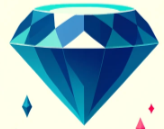
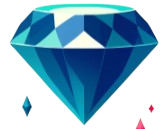
reward image alignment corrections, proper image resizing

diff --git a/dist/experiment.js b/dist/experiment.js
@@ -8,8 +8,8 @@ exports.currentStage = "instructions"; // [instructions, stage1, stage2]
 exports.results = [];
 exports.points = 0;
 // variables for game setting 1
-var REWARD_1 = { points: 100, image: "img/gem-emerald.png", message: "Yay! You found a gem of 100 points! You will now fly back to Earth..." };
-var REWARD_2 = { points: 0, image: "img/dirt.png", message: "Aw, you found only some dirt (no points)! You will now fly back to Earth..." };
+var REWARD_1 = { points: 100, image: "reward-img-gem", message: "Yay! You found a gem of 100 points! You will now fly back to Earth..." };
+var REWARD_2 = { points: 0, image: "reward-img-dirt", message: "Aw, you found only some dirt (no points)! You will now fly back to Earth..." };
 // // variables for game setting 2
 // const REWARD_1 = { points: 100, image: "img/gem-sapphire.png" };
 // const REWARD_2 = { points: 100, image: "img/gem-ruby.png" };
@@ -80,17 +80,17 @@ function chooseOption(option) {
             document.getElementById('stage-2-instructions').style.display = 'none';
             document.getElementById('reward-message').innerText = rewardMessage;
             document.getElementById('reward-message').style.display = 'block';
-            var rewardImgElement = document.getElementById('reward-img');
-            rewardImgElement.style.display = 'block';
-            if (rewardImgElement instanceof HTMLImageElement) {
-                rewardImgElement.src = rewardImage;
-            }
+            document.getElementById(rewardImage).style.display = 'block';
+            // rewardImgElement!.style.display = 'block';
+            // if (rewardImgElement instanceof HTMLImageElement) { 
+            //     rewardImgElement.src = rewardImage; 
+            // }
             // do this only after temporary reward display shows
             setTimeout(function () {
                 exports.points += reward;
                 document.getElementById('pointCounter').innerText = exports.points.toString();
                 document.getElementById('reward-message').style.display = 'none';
-                document.getElementById('reward-img').style.display = 'none';
+                document.getElementById(rewardImage).style.display = 'none';
                 exports.round++;
                 console.log("round: " + exports.round);
                 // check if at the end of game

diff --git a/src/experiment.ts b/src/experiment.ts
@@ -6,8 +6,8 @@ export let results: { round: number; choice: string; outcome: string; reward: nu
 export let points: number = 0;
 
 // variables for game setting 1
-const REWARD_1 = { points: 100, image: "img/gem-emerald.png", message: "Yay! You found a gem of 100 points! You will now fly back to Earth..."};
-const REWARD_2 = { points: 0, image: "img/dirt.png", message: "Aw, you found only some dirt (no points)! You will now fly back to Earth..."};
+const REWARD_1 = { points: 100, image: "reward-img-gem", message: "Yay! You found a gem of 100 points! You will now fly back to Earth..."};
+const REWARD_2 = { points: 0, image: "reward-img-dirt", message: "Aw, you found only some dirt (no points)! You will now fly back to Earth..."};
 // // variables for game setting 2
 // const REWARD_1 = { points: 100, image: "img/gem-sapphire.png" };
 // const REWARD_2 = { points: 100, image: "img/gem-ruby.png" };
@@ -81,16 +81,18 @@ export function chooseOption(option: string): void {
             document.getElementById('stage-2-instructions')!.style.display = 'none';
             document.getElementById('reward-message')!.innerText = rewardMessage;
             document.getElementById('reward-message')!.style.display = 'block';
-            const rewardImgElement = document.getElementById('reward-img')
-            rewardImgElement!.style.display = 'block';
-            if (rewardImgElement instanceof HTMLImageElement) { rewardImgElement.src = rewardImage; }
+            document.getElementById(rewardImage)!.style.display = 'block';
+            // rewardImgElement!.style.display = 'block';
+            // if (rewardImgElement instanceof HTMLImageElement) { 
+            //     rewardImgElement.src = rewardImage; 
+            // }
             
             // do this only after temporary reward display shows
             setTimeout(function() {
                 points += reward;
                 document.getElementById('pointCounter')!.innerText = points.toString();
                 document.getElementById('reward-message')!.style.display = 'none';
-                document.getElementById('reward-img')!.style.display = 'none';
+                document.getElementById(rewardImage)!.style.display = 'none';
                 round++;
                 console.log("round: " + round)
                 

diff --git a/index.html b/index.html
@@ -60,8 +60,11 @@
                 <p>Two alien traders stand before you. To find a gem, speak with one of the aliens. <br>One of these aliens may have more (or better) gems to offer you, so make your choice carefully...</p>
                 <p><b><i>Press LEFT ARROW for the alien on the left.<br> Press RIGHT ARROW for the alien on the right.</i></b></p>
             </div>
-            <h1 id="reward-message" style="display:none;"></h1>
-            <img id="reward-img" src="">
+            <h1 id="reward-message" style="display:none;"></h1>       
+            <div id="reward-container" >
+                <img class="reward-img" id="reward-img-dirt" src="img/dirt.png" style="display:none">
+                <img class="reward-img" id="reward-img-gem" src="img/gem-emerald.png" style="display:none">
+            </div>
             <div id="planet-X-options" class="planet-container">
                 <img class="planet-img" src="img/planet_purple.png" alt="Planet X"><br>
                 <div class="alien-container">

diff --git a/styles.css b/styles.css
@@ -29,7 +29,7 @@ p {
 }
 
 #game-display {
-  /* text-align: center; */
+  text-align: center;
 }
 
 #stage-1-options img {
@@ -40,9 +40,25 @@ p {
   margin-right: 50px;
 }
 
+/* #stage-2-options {
+    display: flex;
+    justify-content: center;
+    align-items: center; */
+/* } */
+
+#reward-container {
+    display: flex;
+    justify-content: center;
+    align-items: center;
+    margin: 20px 0;
+}
+
 .reward-img {
-    width: 200px;
-    height: 200px;
+    height: 150px;
+    width: auto;
+    /* max-width: 200px;
+    max-height: auto;
+    object-fit: cover; */
 }
 
 .planet-container {
